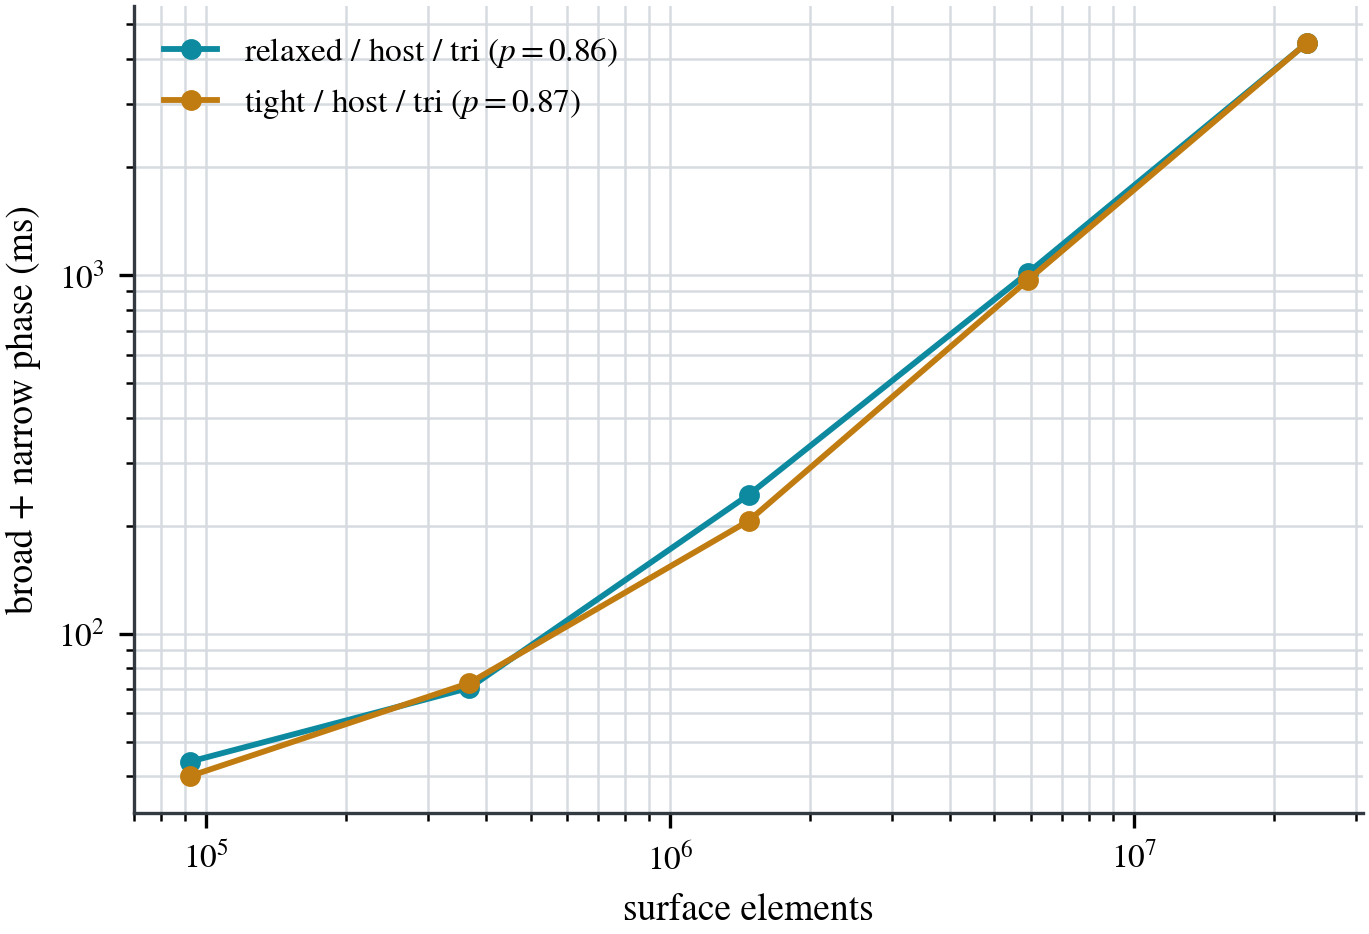
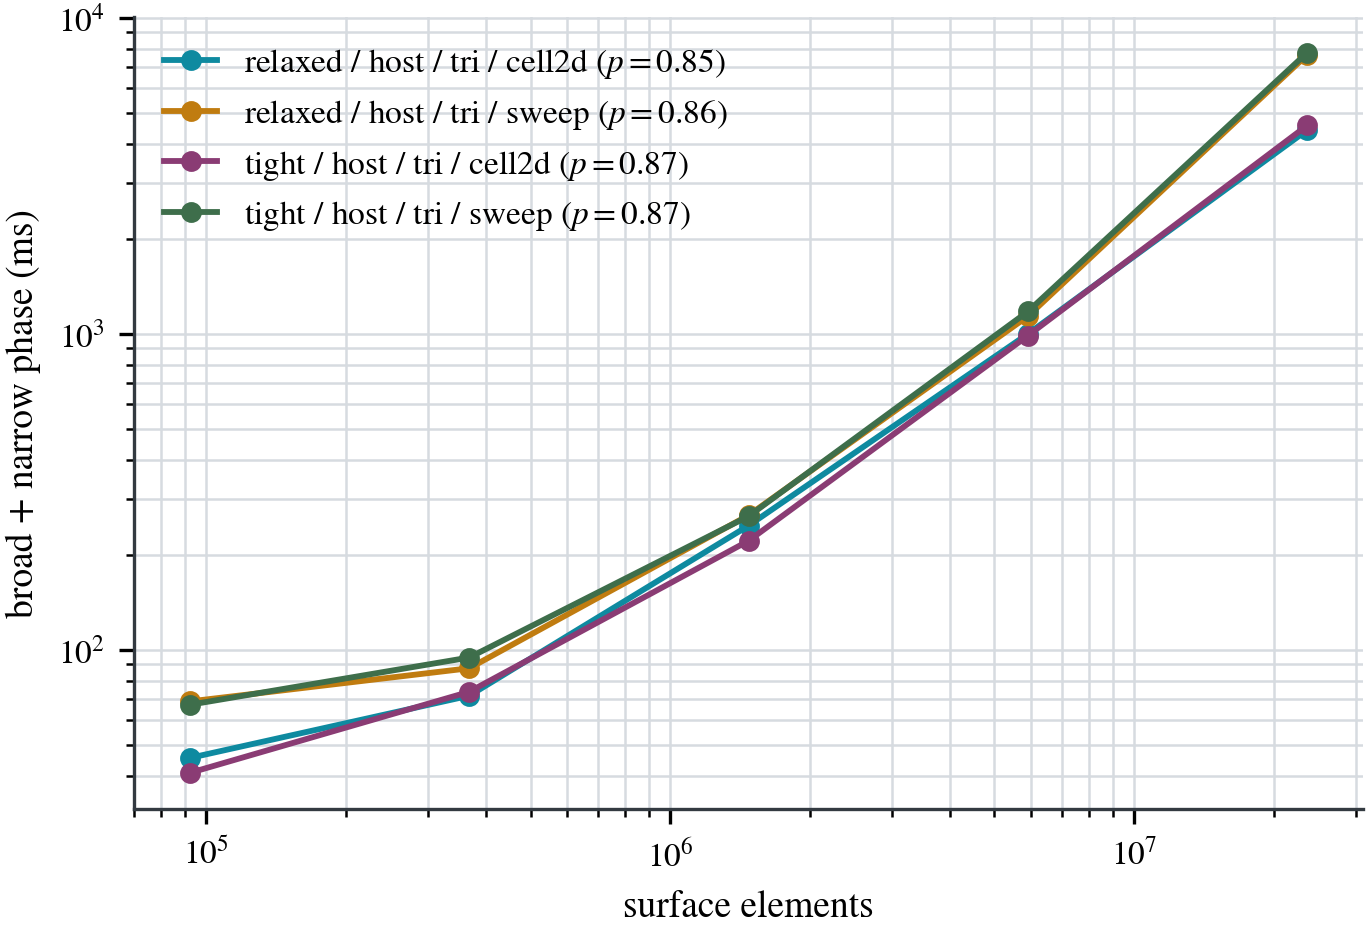
Compare the two broad phases in the scaling study, and record which one ran
The scaling study never said which broad phase produced it, and the
answer was not the obvious one. The driver builds a fresh CCD per level,
so the auto tuner never completes a race and every level ran its first
probe -- the cell list. The study was Cell2D-only and unlabelled, and the
sweep was never exercised by it at all.

The driver now prints broadphase= in its header, so a recorded run says
what produced it, and both strategies are run and tabulated. Refinement
is the right place for this: element count moves over two and a half
orders of magnitude, and the two report identical pair counts at every
level, so only the cost of finding them differs.

They divide that cost oppositely. The sweep builds its structure more
cheaply and scales better doing it (exponent 0.73 against 0.92, 1.45x
cheaper at 23.6 M elements); the cell list traverses far better (0.75
against 1.19, 515 ms against 4,957 ms at the same size). Traversal is
what grows, so the cell list wins at every size measured, by 1.08x to
1.73x, with the margin narrowest in the middle.

The table gains prep and step columns, since a single broad_ms hides the
one thing that separates the two.

Claude-Session: https://claude.ai/code/session_01T1YrDmYsBtXtEw8FL3oBLd

diff --git a/benchmark/report/scaling.py b/benchmark/report/scaling.py
@@ -33,6 +33,8 @@ class ScalingRun:
     faces: list[int] = field(default_factory=list)
     vf_pairs: list[int] = field(default_factory=list)
     ee_pairs: list[int] = field(default_factory=list)
+    prep_ms: list[float] = field(default_factory=list)
+    step_ms: list[float] = field(default_factory=list)
     broad_ms: list[float] = field(default_factory=list)
     narrow_ms: list[float] = field(default_factory=list)
     ns_per_pair: list[float] = field(default_factory=list)
@@ -43,7 +45,11 @@ class ScalingRun:
         space = self.meta.get("space", "host")
         topology = self.meta.get("base_topology", "")
         kind = "quad" if "QUAD" in topology.upper() else "tri"
-        return f"{mode} / {space} / {kind}"
+        # The broad phase is part of the identity of the run, not a footnote:
+        # the two strategies differ by 1.8x at the largest size measured.
+        bp = self.meta.get("broadphase")
+        base = f"{mode} / {space} / {kind}"
+        return f"{base} / {bp}" if bp else base
 
 
 def parse(path: Path) -> ScalingRun:
@@ -63,6 +69,8 @@ def parse(path: Path) -> ScalingRun:
             run.faces.append(int(fields[1]))
             run.vf_pairs.append(int(fields[2]))
             run.ee_pairs.append(int(fields[3]))
+            run.prep_ms.append(float(fields[4]))
+            run.step_ms.append(float(fields[5]) + float(fields[6]))
             run.broad_ms.append(float(fields[7]))
             run.narrow_ms.append(float(fields[8]))
             run.ns_per_pair.append(float(fields[9]))
@@ -104,6 +112,8 @@ def table(runs: list[ScalingRun], source: str):
                  "levels of that series."),
         columns=[Column("mode", "l"), Column("level"), Column("elements"),
                  Column("candidate pairs"),
+                 Column("prep ms", tex_header="prep (ms)"),
+                 Column("step ms", tex_header="step (ms)"),
                  Column("broad ms", tex_header="broad (ms)"),
                  Column("narrow ms", tex_header="narrow (ms)"),
                  Column("p")],
@@ -113,8 +123,12 @@ def table(runs: list[ScalingRun], source: str):
                "noise rather than by element count; what this measures is the "
                "broad phase and the preparation that feeds it. Narrow-phase cost "
                "against problem size is in the per-case figure, over cases that "
-               "do collide. The exponent is below 1 because the fixed cost "
-               "visible at the smallest size is amortised as the mesh grows."),
+               "do collide. Where the exponent is below 1 it is because the fixed "
+               "cost visible at the smallest size is amortised as the mesh "
+               "grows. `prep` builds the acceleration structure -- the cell "
+               "list's grid or the sweep's sorted intervals -- and `step` is "
+               "the traversal that reports pairs; the two strategies divide "
+               "the work between those columns quite differently."),
     )
     for run in runs:
         faces = [float(f) for f in run.faces]
@@ -123,6 +137,7 @@ def table(runs: list[ScalingRun], source: str):
         for i, level in enumerate(run.levels):
             t.add(run.label if i == 0 else "", f"{level}", f"{run.faces[i]:,}",
                   f"{run.vf_pairs[i] + run.ee_pairs[i]:,}",
+                  f"{run.prep_ms[i]:.1f}", f"{run.step_ms[i]:.1f}",
                   f"{run.broad_ms[i]:.1f}", f"{run.narrow_ms[i]:.1f}",
                   f"{p_fit:.2f}" if i == 0 else "")
     return t

diff --git a/benchmark/refine_scaling.exe.cpp b/benchmark/refine_scaling.exe.cpp
@@ -22,6 +22,7 @@
 #include "smesh_path.hpp"
 
 #include "sccd_config.hpp"
+#include "sccd_broadphase_strategy.hpp"
 #include "sccd_narrowphase_mode.hpp"
 #include "sccd_smesh_ccd.hpp"
 
@@ -214,13 +215,19 @@ int main(int argc, char** argv) {
 
     const bool base_is_surface = is_surface_mesh(base->block(0)->element_type());
 
-    printf("# mode=%s max_depth=%d tol=%g scale=%g space=%s base_topology=%s\n",
+    // The broad phase belongs in the header. Without it a recorded run does not
+    // say which of the two strategies produced it, and the default is not
+    // self-evident: this driver builds a fresh CCD per level, so the auto tuner
+    // never completes a race and every level runs its first probe.
+    printf("# mode=%s max_depth=%d tol=%g scale=%g space=%s base_topology=%s "
+           "broadphase=%s\n",
            sccd::narrow_phase_mode_name(sccd::narrow_phase_mode()),
            SCCD_MAX_DEPTH,
            (double)SCCD_TOL,
            SCCD_SCALE,
            space == smesh::EXECUTION_SPACE_DEVICE ? "device" : "host",
-           smesh::type_to_string(base->block(0)->element_type()));
+           smesh::type_to_string(base->block(0)->element_type()),
+           sccd::broadphase_strategy_name(sccd::broadphase_strategy_setting()));
     printf("%5s %10s %12s %12s %9s %9s %9s %9s %10s %10s %14s\n",
            "level",
            "faces",

diff --git a/docs/BENCHMARKS.md b/docs/BENCHMARKS.md
@@ -654,24 +654,58 @@ count at each level, and runs a collision step on each — the one question
 neither other driver can answer. Two consecutive cloth-ball frames, 92,230
 elements up to 23.6 million.
 
+Sweeping element count over two and a half orders of magnitude is also the
+cleanest way to separate the two broad-phase strategies, so both are run here
+rather than leaving the choice to the tuner. They are checked against each other
+by construction: at every level the two report **identical pair counts**, so what
+differs is only how the pairs are found.
+
+**The strategies divide their cost differently, and that is the whole result.**
+`prep` builds the acceleration structure — the cell list's grid, or the sweep's
+sorted intervals — and `step` is the traversal that reports pairs:
+
+- The **sweep** builds more cheaply and scales better doing it: exponent 0.73
+  against the cell list's 0.92, and at 23.6 M elements its prep is 1.45× the
+  cheaper of the two.
+- The **cell list** traverses far better: exponent 0.75 against the sweep's
+  1.19, and at the same size its step costs 515 ms against 4,957 ms — 9.6×.
+
+Traversal is what grows, so the cell list wins overall at every size measured,
+by 1.08× to 1.73×. The margin is narrowest in the middle and widens at both ends:
+at the smallest size the sweep pays a fixed setup cost it cannot amortise, and at
+the largest its traversal has become the dominant term. That is why the shipped
+default races the two per scene rather than fixing one, and why the first probe
+is the cell list — it is the choice that bounds the worst case for a caller who
+never completes a race.
+
 <!-- sccd:begin scaling -->
 
-| mode                 | level |   elements | candidate pairs | broad ms | narrow ms |    p |
-|----------------------|------:|-----------:|----------------:|---------:|----------:|-----:|
-| relaxed / host / tri |     0 |     92,230 |          17,982 |     35.3 |       8.6 | 0.86 |
-|                      |     1 |    368,920 |          87,848 |     65.3 |       5.2 |      |
-|                      |     2 |  1,475,680 |         380,924 |    241.8 |       1.9 |      |
-|                      |     3 |  5,902,720 |       1,581,142 |   1008.1 |       6.2 |      |
-|                      |     4 | 23,610,880 |       6,440,923 |   4424.2 |      19.9 |      |
-| tight / host / tri   |     0 |     92,230 |          17,982 |     35.2 |       4.8 | 0.87 |
-|                      |     1 |    368,920 |          87,848 |     62.2 |      10.6 |      |
-|                      |     2 |  1,475,680 |         380,924 |    202.0 |       4.2 |      |
-|                      |     3 |  5,902,720 |       1,581,142 |    964.3 |       4.5 |      |
-|                      |     4 | 23,610,880 |       6,440,923 |   4433.4 |      16.2 |      |
+| mode                          | level |   elements | candidate pairs | prep ms | step ms | broad ms | narrow ms |    p |
+|-------------------------------|------:|-----------:|----------------:|--------:|--------:|---------:|----------:|-----:|
+| relaxed / host / tri / cell2d |     0 |     92,230 |          17,982 |    27.9 |     8.8 |     36.7 |       8.9 | 0.85 |
+|                               |     1 |    368,920 |          87,771 |    50.8 |    14.6 |     65.4 |       6.2 |      |
+|                               |     2 |  1,475,680 |         379,818 |   200.1 |    45.5 |    245.5 |       2.0 |      |
+|                               |     3 |  5,902,720 |       1,573,741 |   852.6 |   142.6 |    995.2 |       5.4 |      |
+|                               |     4 | 23,610,880 |       6,402,081 |  3884.8 |   515.0 |   4399.8 |      20.2 |      |
+| relaxed / host / tri / sweep  |     0 |     92,230 |          17,982 |    53.9 |     7.4 |     61.3 |       7.5 | 0.86 |
+|                               |     1 |    368,920 |          87,771 |    68.8 |    13.3 |     82.1 |       5.5 |      |
+|                               |     2 |  1,475,680 |         379,818 |   195.8 |    69.0 |    264.8 |       2.1 |      |
+|                               |     3 |  5,902,720 |       1,573,741 |   720.5 |   411.2 |   1131.7 |       6.5 |      |
+|                               |     4 | 23,610,880 |       6,402,081 |  2671.7 |  4957.1 |   7628.8 |      22.4 |      |
+| tight / host / tri / cell2d   |     0 |     92,230 |          17,982 |    27.2 |     8.3 |     35.5 |       5.3 | 0.87 |
+|                               |     1 |    368,920 |          87,771 |    49.2 |    14.7 |     63.9 |       9.8 |      |
+|                               |     2 |  1,475,680 |         379,818 |   173.8 |    42.7 |    216.5 |       5.1 |      |
+|                               |     3 |  5,902,720 |       1,573,741 |   832.5 |   151.4 |    983.9 |       4.2 |      |
+|                               |     4 | 23,610,880 |       6,402,081 |  3915.5 |   640.2 |   4555.7 |      15.0 |      |
+| tight / host / tri / sweep    |     0 |     92,230 |          17,982 |    52.5 |     8.7 |     61.2 |       5.9 | 0.87 |
+|                               |     1 |    368,920 |          87,771 |    72.3 |    13.5 |     85.9 |       8.8 |      |
+|                               |     2 |  1,475,680 |         379,818 |   204.5 |    58.0 |    262.5 |       2.6 |      |
+|                               |     3 |  5,902,720 |       1,573,741 |   739.2 |   431.6 |   1170.8 |       7.0 |      |
+|                               |     4 | 23,610,880 |       6,402,081 |  2726.8 |  5024.1 |   7750.9 |      18.2 |      |
 
-The two frames used here do not come into contact, so the narrow phase has almost no work to do and its column is dominated by noise rather than by element count; what this measures is the broad phase and the preparation that feeds it. Narrow-phase cost against problem size is in the per-case figure, over cases that do collide. The exponent is below 1 because the fixed cost visible at the smallest size is amortised as the mesh grows.
+The two frames used here do not come into contact, so the narrow phase has almost no work to do and its column is dominated by noise rather than by element count; what this measures is the broad phase and the preparation that feeds it. Narrow-phase cost against problem size is in the per-case figure, over cases that do collide. Where the exponent is below 1 it is because the fixed cost visible at the smallest size is amortised as the mesh grows. `prep` builds the acceleration structure -- the cell list's grid or the sweep's sorted intervals -- and `step` is the traversal that reports pairs; the two strategies divide the work between those columns quite differently.
 
-Source: `benchmark/results/scaling/host-mode0.txt, benchmark/results/scaling/host-mode2.txt`
+Source: `benchmark/results/scaling/host-cell2d-mode0.txt, benchmark/results/scaling/host-sweep-mode0.txt, benchmark/results/scaling/host-cell2d-mode2.txt, benchmark/results/scaling/host-sweep-mode2.txt`
 
 <!-- sccd:end scaling -->
 
